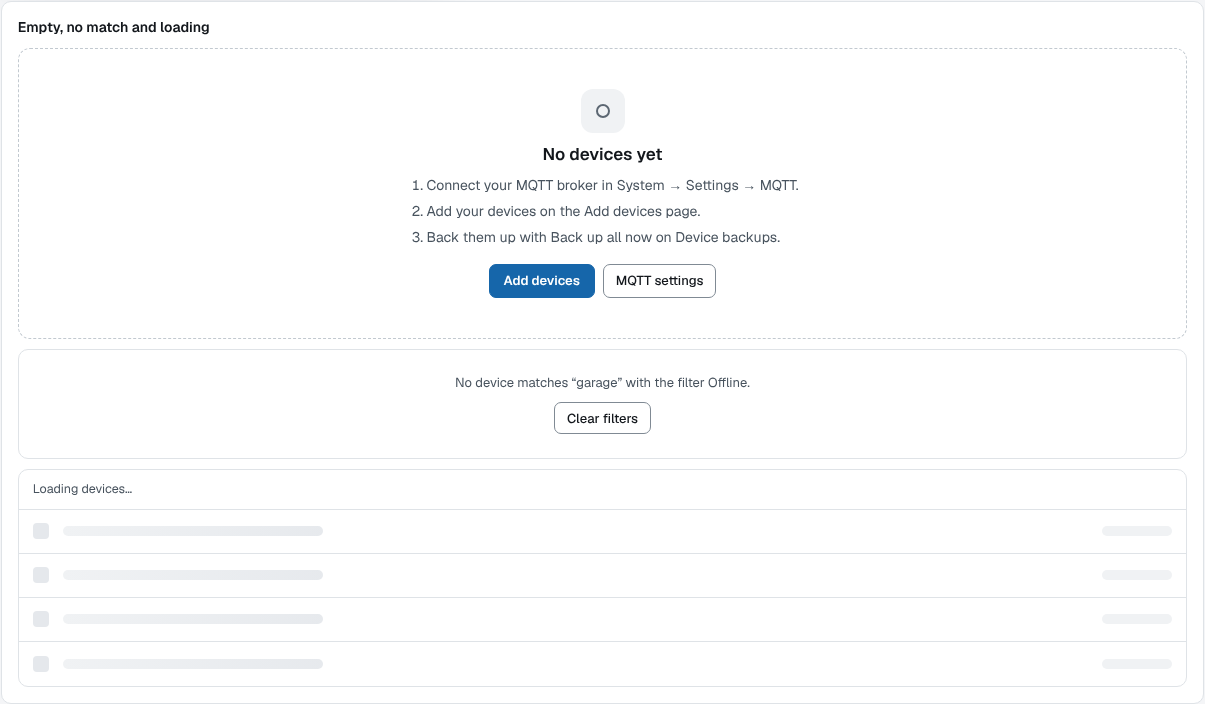
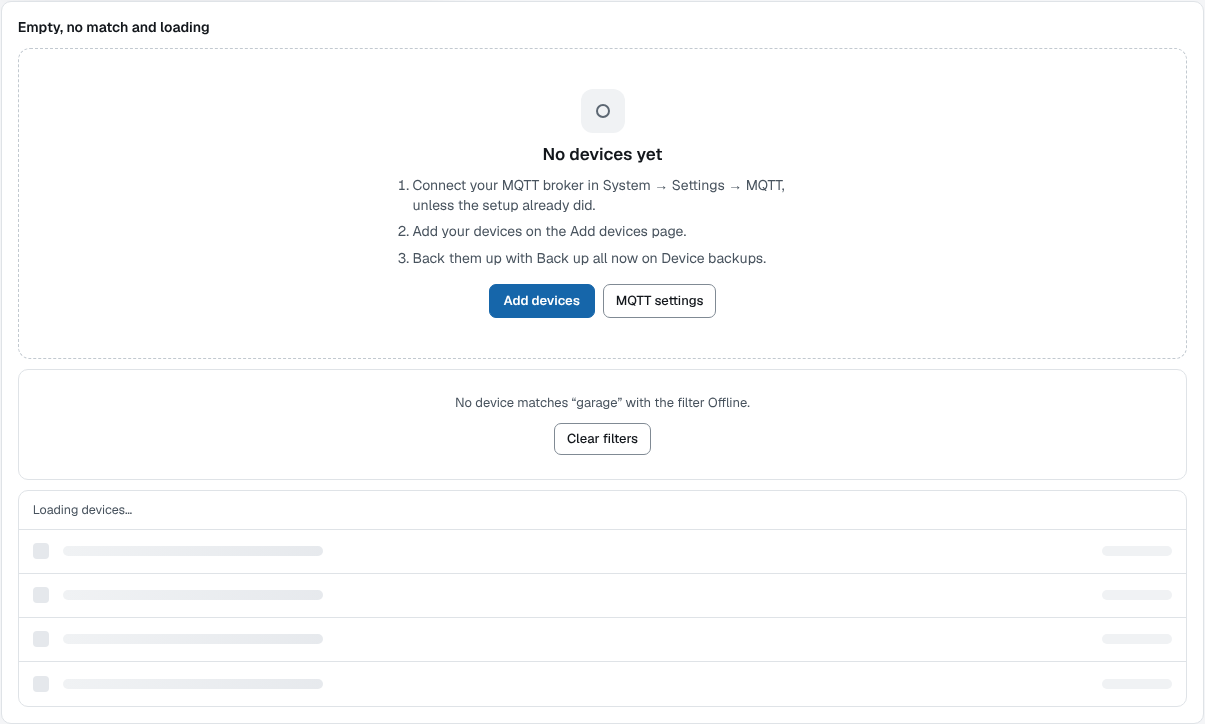
Setup: a refused broker replaces the fallback sentence, tested (#1050)

diff --git a/internal/web/quickstart_test.go b/internal/web/quickstart_test.go
@@ -1,6 +1,7 @@
 package web
 
 import (
+	"net/url"
 	"strings"
 	"testing"
 )
@@ -46,6 +47,10 @@ func TestEmptyDeviceListShowsAdminsTheQuickStart(t *testing.T) {
 		if n := strings.Count(card, `class="btn`); n < 1 || n > 3 {
 			t.Errorf("%s: %d buttons in the empty card, want one to three: %s", path, n, card)
 		}
+		// The setup already asks for the broker first, so the step must stay true after it: it says so.
+		if !strings.Contains(steps[0], "unless the setup already did") {
+			t.Errorf("%s: step 1 = %q reads as still to do for an admin whose setup set the broker", path, steps[0])
+		}
 		for _, href := range []string{"/devices/new", "?tab=mqtt"} {
 			if !strings.Contains(card, href+`"`) {
 				t.Errorf("%s: no link to %s in the empty card", path, href)
@@ -71,6 +76,9 @@ func TestQuickStartWithoutSettingsPageDoesNotLinkIt(t *testing.T) {
 	if !ok || len(steps) != 3 {
 		t.Fatalf("want three steps, got %v: %.600s", steps, body)
 	}
+	if !strings.Contains(steps[0], "unless it is set") {
+		t.Errorf("the first step reads as still to do when MQTT_URL is already set: %q", steps[0])
+	}
 	if strings.Contains(body, "tab=mqtt") || strings.Contains(steps[0], "Settings") {
 		t.Errorf("the first step points to a settings page this install does not have: %q", steps[0])
 	}
@@ -93,6 +101,11 @@ func TestSetupAsksForTheBrokerBeforeTheNetworks(t *testing.T) {
 	if !strings.Contains(body[host:nets], fallback) {
 		t.Errorf("the fallback sentence is not under the broker fields")
 	}
+	// a refused broker says what is wrong in the sentence's place, not under it
+	r, body := e.do(t, "POST", "/setup/finish", "admin", url.Values{"csrf": {"tok"}, "v.DEVICE_NETWORKS": {"192.168.7.0/24"}, "mqtt.host": {"broker.lan"}, "mqtt.port": {"99999"}})
+	if r.StatusCode != 422 || !strings.Contains(body, `id="err-v.MQTT_URL"`) || strings.Contains(body, fallback) {
+		t.Errorf("a refused broker: status %d, error shown %v, fallback still shown %v", r.StatusCode, strings.Contains(body, `id="err-v.MQTT_URL"`), strings.Contains(body, fallback))
+	}
 }
 
 // Why (#1050): the page is called Dashboard in the menu, the crumb and the tab title; a heading that reads
@@ -102,5 +115,18 @@ func TestDashboardHeadingIsItsName(t *testing.T) {
 	_, body := e.do(t, "GET", "/", "admin", nil)
 	if !strings.Contains(body, "<h1>Dashboard</h1>") || strings.Contains(body, "Fleet overview") {
 		t.Errorf("the dashboard heading is not Dashboard: %.800s", body)
+	}
+}
+
+// Why (#1098, #1050): the first refused input takes the focus, and "first" is the order of the inputs on the page.
+// The setup asks for the broker before the device networks, so a refused broker field must win over a refused
+// network list; otherwise the autofocus scrolls past the broker error to the networks at the bottom.
+func TestSetupFocusGoesToTheFirstRefusedInputOnThePage(t *testing.T) {
+	p := setupPage{Errors: map[string]string{"DEVICE_NETWORKS": "no", "MQTT_URL": "no"}}
+	if a := setupInvalid(p, "MQTT_URL"); a["autofocus"] != true {
+		t.Errorf("the refused broker (first on the page) does not take the focus: %v", a)
+	}
+	if a := setupInvalid(p, "DEVICE_NETWORKS"); a["autofocus"] != false {
+		t.Errorf("the refused networks (below the broker) take the focus: %v", a)
 	}
 }

diff --git a/internal/web/devices.go b/internal/web/devices.go
@@ -268,11 +268,12 @@ func addDevicesLabel(n int) string {
 
 // quickStartSteps are the three steps of the empty Devices page (#1050): the broker first, because with it devices
 // report at once and every write goes over MQTT; then the devices; then the first backup. Without the settings page
-// the broker comes from the environment, and the step says so instead of naming a page that is not there.
+// the broker comes from the environment, and the step says so instead of naming a page that is not there. The
+// step reads true whether or not the setup already set the broker, so the handler needs no broker state.
 func quickStartSteps(settingsPage bool) []string {
-	broker := "Connect your MQTT broker: set MQTT_URL for TasmoFleet."
+	broker := "Connect your MQTT broker: set MQTT_URL for TasmoFleet, unless it is set."
 	if settingsPage {
-		broker = "Connect your MQTT broker in System → Settings → MQTT."
+		broker = "Connect your MQTT broker in System → Settings → MQTT, unless the setup already did."
 	}
 	return []string{broker, "Add your devices on the Add devices page.", "Back them up with Back up all now on Device backups."}
 }

diff --git a/internal/web/setup.go b/internal/web/setup.go
@@ -62,7 +62,7 @@ type setupPage struct {
 
 // setupFocusOrder are the settings the setup may change, in the order of their inputs on the page: the first refused
 // one takes the focus.
-var setupFocusOrder = []string{"DEVICE_NETWORKS", "MQTT_URL", "MQTT_USER", "MQTT_PASSWORD"}
+var setupFocusOrder = []string{"MQTT_URL", "MQTT_USER", "MQTT_PASSWORD", "DEVICE_NETWORKS"}
 
 // setupKeys are the settings the setup may change; each has an input on the page, where its refusal is shown.
 var setupKeys = func() map[string]bool {

diff --git a/README.md b/README.md
@@ -84,8 +84,8 @@ docker logs tasmofleet 2>&1 | grep -o '/setup/account?token=[^"]*'
 1. Open the setup link: `https://<host>:8443` followed by the `/setup/account?token=...` path printed once
    at start in the TasmoFleet log (`docker logs tasmofleet`; on Unraid, open the container's log). Accept
    the self-signed certificate and set the admin password.
-2. In the setup, enter your MQTT broker first (devices then report at once and every change goes over
-   MQTT; HTTP is only the fallback), then your device networks, and choose **Finish setup**.
+2. In the setup, enter your MQTT broker first (devices then report at once and changes go over MQTT
+   first; HTTP is the fallback), then your device networks, and choose **Finish setup**.
 3. On the empty Devices page, open **Add devices** and add your devices.
 4. Under **Device backups**, choose **Back up all now** to take the first backup.
 
